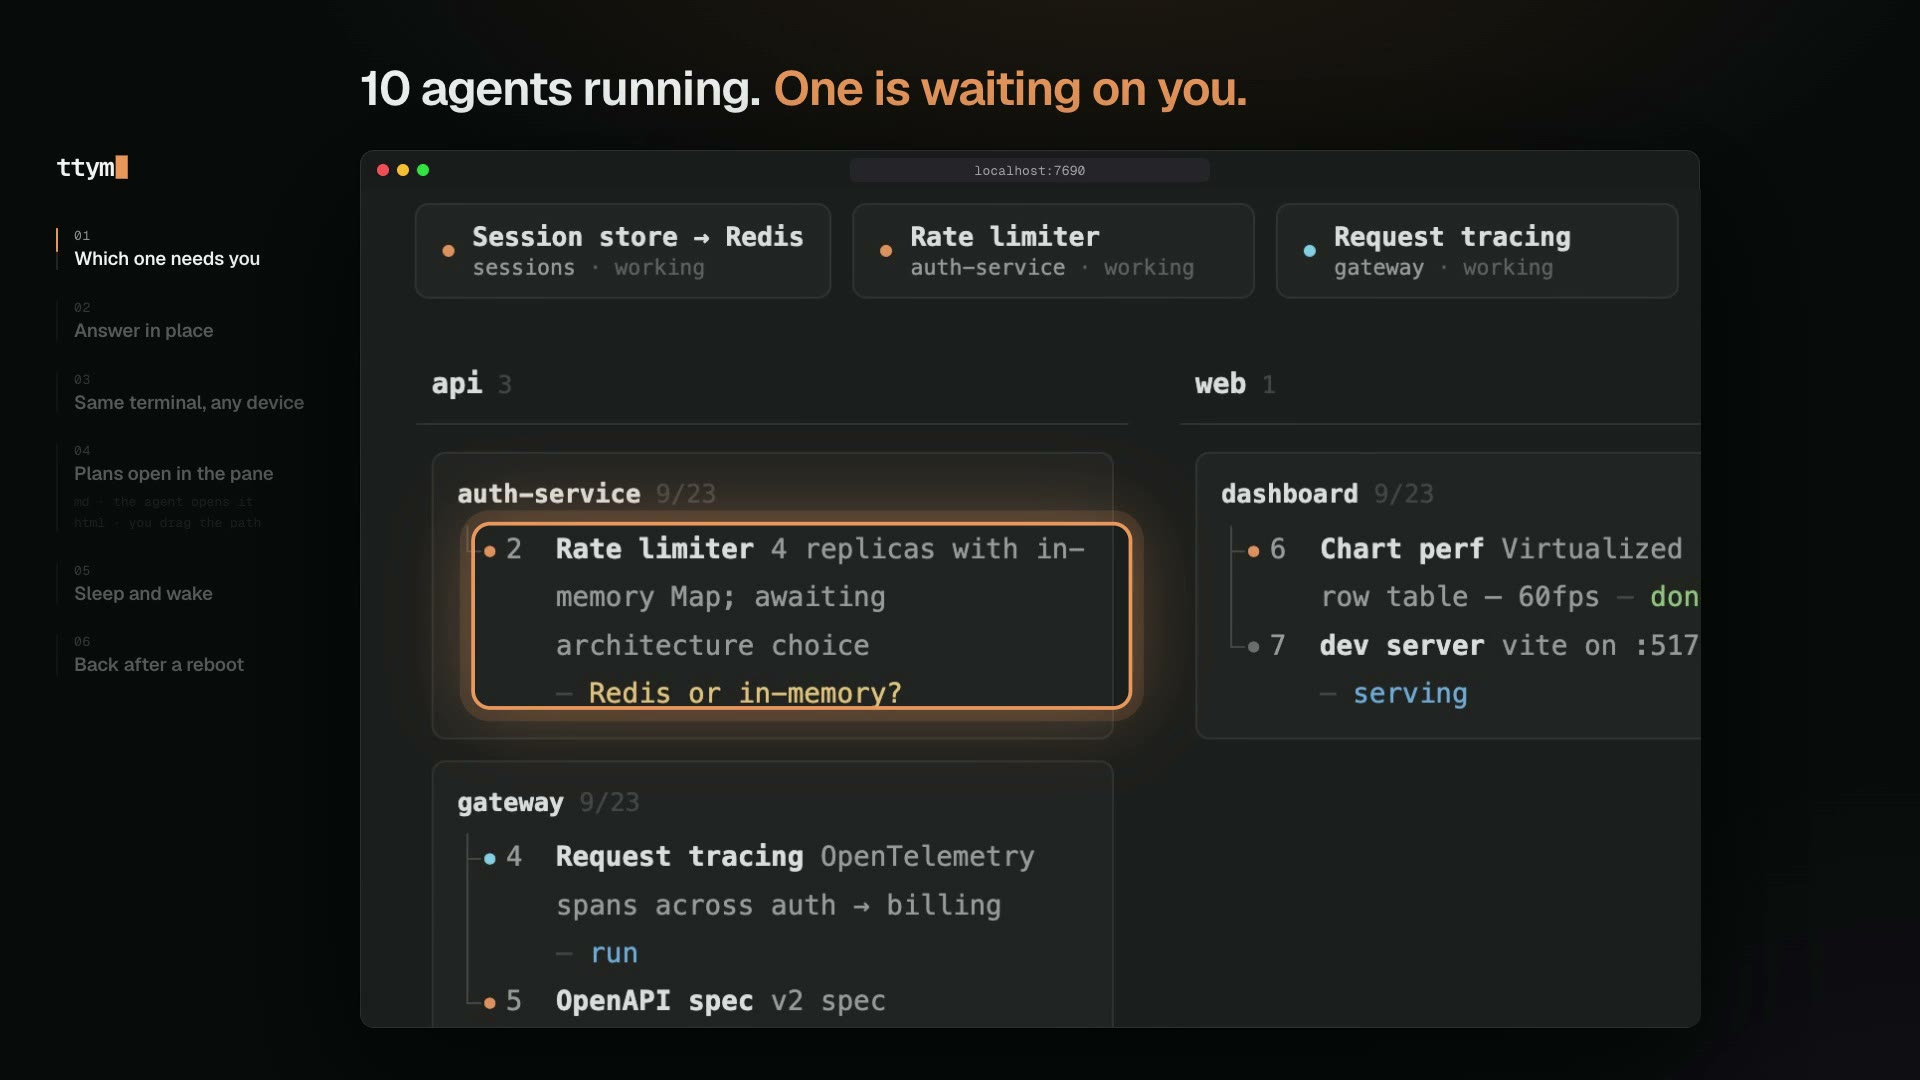
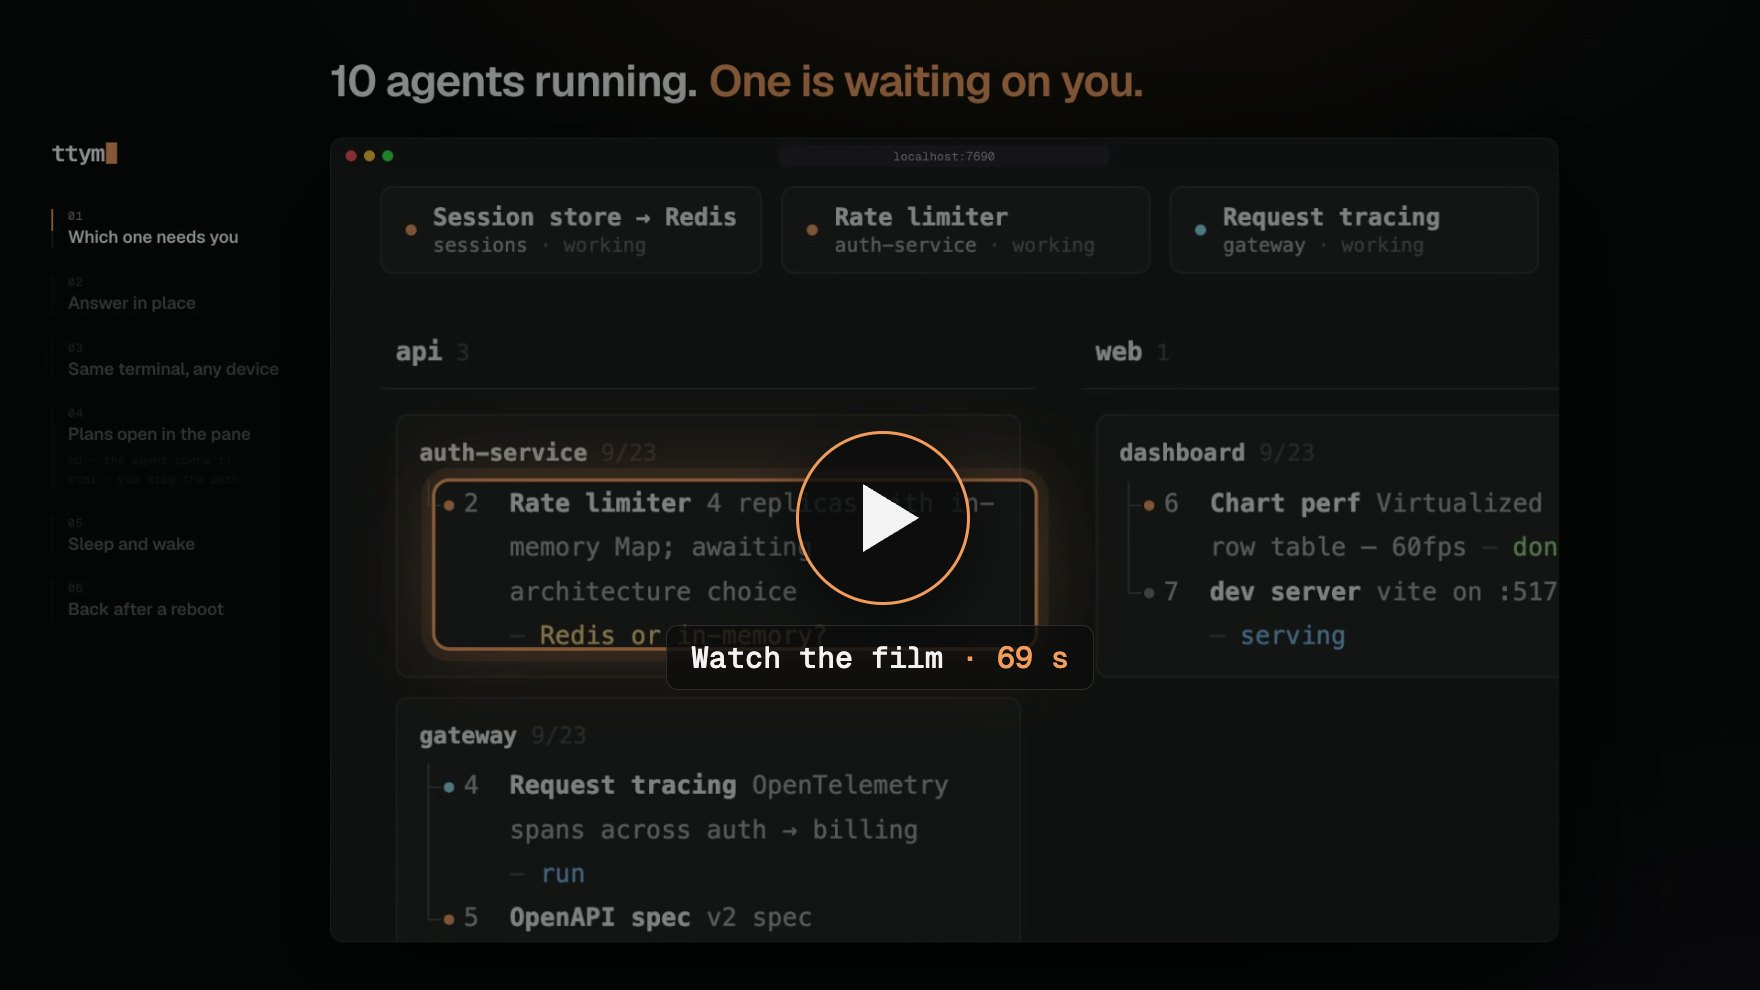
README: a hero card on top, and a play button on the film poster
The logo, tagline and description line become one card image (English and
Korean), rendered from scripts/brand/readme-hero.html with transparent rounded
corners so it sits on light and dark GitHub alike. GitHub strips <video>, so
the poster gets a play button and 'Watch the film · 69 s' and links to the film
on the site.

diff --git a/scripts/brand/readme-hero.html b/scripts/brand/readme-hero.html
@@ -1,0 +1,27 @@
+<!doctype html>
+<!-- README hero, 1760x560 (shown at 880x280). Rendered by scripts/brand/make-cards.mjs → docs/assets/hero.png.
+     Transparent outside the rounded card, so it sits on GitHub's light and dark pages alike. -->
+<html><head><meta charset="utf-8"><style>
+@font-face { font-family: "Geist"; src: url("../../site/fonts/Geist-Variable.woff2") format("woff2"); font-weight: 100 900; }
+@font-face { font-family: "Geist Mono"; src: url("../../site/fonts/GeistMono-Variable.woff2") format("woff2"); font-weight: 100 900; }
+html, body { margin: 0; width: 1760px; height: 560px; background: transparent; overflow: hidden; }
+.card { box-sizing: border-box; width: 1760px; height: 560px; border-radius: 36px; border: 2px solid rgba(255,255,255,.08);
+  display: flex; flex-direction: column; align-items: center; justify-content: center; gap: 30px; font-family: "Geist", "Apple SD Gothic Neo", sans-serif;
+  background: radial-gradient(1100px 420px at 50% -20%, rgba(242,156,92,.16), transparent 70%), radial-gradient(800px 500px at 100% 120%, rgba(140,120,255,.06), transparent 70%), #0b0b0c; }
+img { height: 150px; }
+p { margin: 0; text-align: center; font-size: 50px; font-weight: 540; letter-spacing: -0.02em; line-height: 1.25; color: #d8d8dc; }
+p span { display: block; color: #f29c5c; }
+small { font: 500 26px "Geist Mono", "Apple SD Gothic Neo", monospace; color: #8d8d93; letter-spacing: 0.01em; }
+</style></head><body><div class="card">
+<img src="../../site/brand/ttym-logo-dark.svg" alt="">
+<p id="t">Know which agent needs you.<span>Get back into its terminal from anywhere.</span></p>
+<small id="s">a web terminal multiplexer for coding agents</small>
+<script>
+// ?ko renders the Korean card for README.ko.md
+if (location.search === '?ko') {
+  document.getElementById('t').innerHTML = '어떤 에이전트가 나를 기다리는지 알고,<span>어디서든 그 터미널로 돌아간다.</span>';
+  document.getElementById('s').textContent = '코딩 에이전트를 위한 웹 터미널 멀티플렉서';
+  document.documentElement.lang = 'ko';
+}
+</script>
+</div></body></html>

diff --git a/scripts/brand/readme-poster.html b/scripts/brand/readme-poster.html
@@ -1,0 +1,15 @@
+<!doctype html>
+<!-- README film poster with a play button, 1760x990. Rendered by scripts/brand/make-cards.mjs → docs/assets/film.jpg.
+     GitHub strips <video> from READMEs, so the poster links to the film on the site. -->
+<html><head><meta charset="utf-8"><style>
+@font-face { font-family: "Geist Mono"; src: url("../../site/fonts/GeistMono-Variable.woff2") format("woff2"); font-weight: 100 900; }
+html, body { margin: 0; width: 1760px; height: 990px; overflow: hidden; background: #0b0b0c; }
+.f { position: relative; width: 1760px; height: 990px; background: url("../../site/media/film.jpg") center / cover; }
+.f::after { content: ""; position: absolute; inset: 0; background: rgba(0,0,0,.42); }
+.play { position: absolute; left: 50%; top: 52%; width: 168px; height: 168px; margin: -84px 0 0 -84px; z-index: 1; border-radius: 50%;
+  background: rgba(11,11,12,.78); border: 3px solid #f29c5c; box-shadow: 0 20px 60px rgba(0,0,0,.55); }
+.play::before { content: ""; position: absolute; left: 64px; top: 50px; border-style: solid; border-width: 34px 0 34px 56px; border-color: transparent transparent transparent #f3f3f4; }
+.tag { position: absolute; left: 50%; top: calc(52% + 110px); transform: translateX(-50%); z-index: 1; white-space: nowrap;
+  font: 500 30px "Geist Mono", monospace; color: #f3f3f4; background: rgba(11,11,12,.78); padding: 12px 24px; border-radius: 12px; border: 1px solid rgba(255,255,255,.12); }
+.tag span { color: #f29c5c; }
+</style></head><body><div class="f"><div class="play"></div><div class="tag">Watch the film <span>· 69 s</span></div></div></body></html>

diff --git a/README.ko.md b/README.ko.md
@@ -1,20 +1,11 @@
 <p align="center">
-  <a href="https://ttym.pages.dev">
-    <picture>
-      <source media="(prefers-color-scheme: dark)" srcset="site/brand/ttym-logo-dark.svg">
-      <img src="site/brand/ttym-logo-light.svg" alt="ttym" width="180">
-    </picture>
-  </a>
+  <a href="https://ttym.pages.dev"><img src="docs/assets/hero-ko.png" alt="ttym — 어떤 에이전트가 나를 기다리는지 알고, 어디서든 그 터미널로 돌아간다. 코딩 에이전트를 위한 웹 터미널 멀티플렉서." width="880"></a>
 </p>
-
-<h3 align="center">어떤 에이전트가 나를 기다리는지 알고,<br>어디서든 그 터미널로 돌아간다.</h3>
-
-<p align="center">코딩 에이전트를 위한 웹 터미널 멀티플렉서</p>
 
 <p align="center"><a href="https://ttym.pages.dev"><b>웹사이트</b></a> · <a href="#설치">설치</a> · <a href="#빠른-시작">빠른 시작</a> · <a href="https://ttym.pages.dev/#film">영상 (69초)</a> · <a href="docs/remote-access.md">원격 접속</a> · <a href="#아키텍처">아키텍처</a> · <a href="README.md">English</a></p>
 
 <p align="center">
-  <a href="https://ttym.pages.dev/#film"><img src="docs/assets/film.jpg" alt="69초 영상: ttym 위에서 실제 Claude Code 세션 하나를 처음부터 끝까지" width="880"></a>
+  <a href="https://ttym.pages.dev/#film"><img src="docs/assets/film.jpg" alt="69초 영상 보기: ttym 위의 실제 Claude Code 세션" width="880"></a>
 </p>
 
 코딩 에이전트를 여러 개 돌리다 보면 하나는 내 입력을 기다리고 나머지는

diff --git a/README.md b/README.md
@@ -1,20 +1,11 @@
 <p align="center">
-  <a href="https://ttym.pages.dev">
-    <picture>
-      <source media="(prefers-color-scheme: dark)" srcset="site/brand/ttym-logo-dark.svg">
-      <img src="site/brand/ttym-logo-light.svg" alt="ttym" width="180">
-    </picture>
-  </a>
+  <a href="https://ttym.pages.dev"><img src="docs/assets/hero.png" alt="ttym — Know which agent needs you. Get back into its terminal from anywhere. A web terminal multiplexer for coding agents." width="880"></a>
 </p>
-
-<h3 align="center">Know which agent needs you.<br>Get back into its terminal from anywhere.</h3>
-
-<p align="center">A web terminal multiplexer for coding agents</p>
 
 <p align="center"><a href="https://ttym.pages.dev"><b>Website</b></a> · <a href="#install">Install</a> · <a href="#quick-start">Quick start</a> · <a href="https://ttym.pages.dev/#film">Film (69 s)</a> · <a href="docs/remote-access.md">Remote access</a> · <a href="#architecture">Architecture</a> · <a href="README.ko.md">한국어</a></p>
 
 <p align="center">
-  <a href="https://ttym.pages.dev/#film"><img src="docs/assets/film.jpg" alt="The 69-second film: one real Claude Code session on ttym, end to end" width="880"></a>
+  <a href="https://ttym.pages.dev/#film"><img src="docs/assets/film.jpg" alt="Watch the 69-second film: one real Claude Code session on ttym" width="880"></a>
 </p>
 
 You're running a dozen coding agents. One is blocked on you, the rest are still
